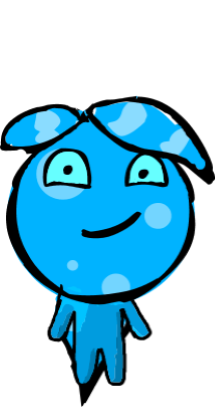
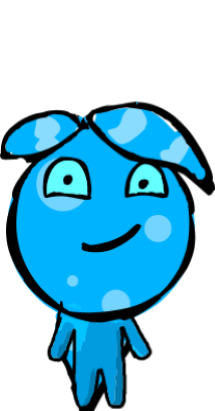
점프시 간혈적으로 발판 뚫는 버그 수정, 캐릭터 콜리전 조정, 파란 이미지 공중에 있는 상황: 이미지 문제 해결

Changed region(s): [[0.0, 0.2336, 1.0, 1.0]]

diff --git a/NetGameProjServer/main.cpp b/NetGameProjServer/main.cpp
@@ -412,6 +412,7 @@ DWORD WINAPI ServerWorkThread(LPVOID arg)
 								cout << "collide head" << endl;
 
 								threadHandles[i].v = 0.f;
+								threadHandles[i].y += ft.hei;
 								threadHandles[i].Falling = true;
 								break;
 							}
